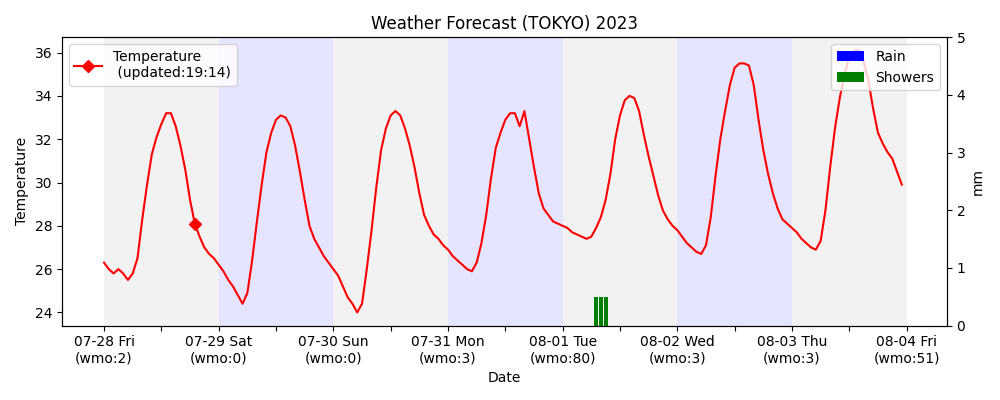
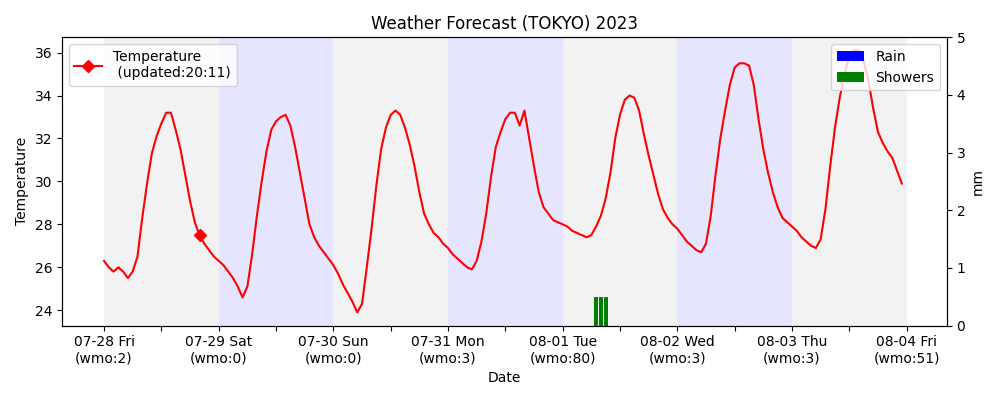
deploy: 3f5e3ea108cefc87d0a8acd8bee96851ad85ab1d

diff --git a/docs/src/dashboard/marketinfo.html b/docs/src/dashboard/marketinfo.html
@@ -28,12 +28,12 @@
         </tr>
         <tr>
             <td>USD/JPY</td>
-            <td>139.386</td>
-            <td>139.386</td>
+            <td>139.242</td>
+            <td>139.242</td>
             <td>139.448</td>
             <td>138.066</td>
             <td>141.894</td>
-            <td>2023-07-28 19:14:27</td>
+            <td>2023-07-28 20:11:22</td>
         </tr>
     </table>
 
